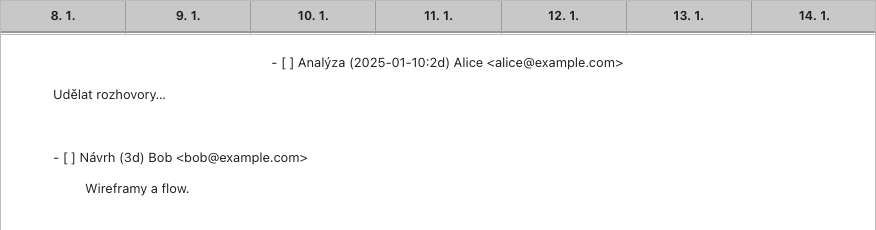
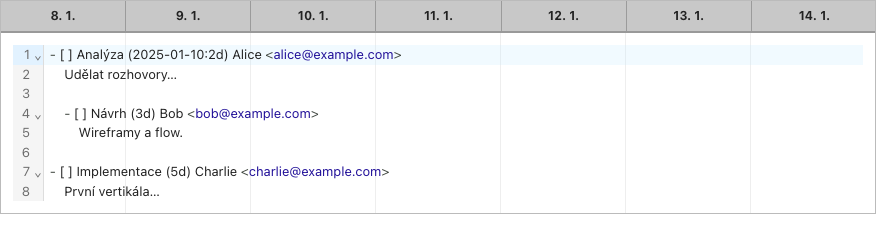
Refactor Editor and Timeline components for improved styling and adaptive layout. Replace oneDark theme with custom EditorView theme in Editor.tsx. Enhance Timeline.tsx to dynamically calculate day width based on content length using useLayoutEffect. Update visual test artifacts for consistency.

diff --git a/editor/src/components/Timeline.tsx b/editor/src/components/Timeline.tsx
@@ -1,4 +1,4 @@
-import { useMemo } from 'react'
+import { useMemo, useRef, useLayoutEffect, useState } from 'react'
 import CalendarHeader from './CalendarHeader'
 import { eachDay, toISODate } from '../utils/date'
 import Editor from './Editor'
@@ -13,9 +13,28 @@ export type TimelineProps = {
 
 export default function Timeline({ start, end, width, source, onChange }: TimelineProps) {
   const days = useMemo(() => eachDay(start, end), [start, end])
-  const dayWidth = width / Math.max(1, days.length)
+  const [dayWidth, setDayWidth] = useState<number>(width / Math.max(1, days.length))
+  const hostRef = useRef<HTMLDivElement | null>(null)
+
+  // Measure widest line segment to compute adaptive day width
+  useLayoutEffect(() => {
+    const host = hostRef.current
+    if (!host) return
+    // Create a hidden canvas to measure text width
+    const canvas = document.createElement('canvas')
+    const ctx = canvas.getContext('2d')
+    if (!ctx) return
+    ctx.font = '13px system-ui, -apple-system, Segoe UI, Roboto, Helvetica, Arial, sans-serif'
+    const lines = source.split(/\r?\n/)
+    let maxChars = 0
+    for (const line of lines) {
+      maxChars = Math.max(maxChars, ctx.measureText(line.replace(/^\s+/, '')).width)
+    }
+    const minDay = Math.ceil((maxChars + 32) / Math.max(1, days.length))
+    setDayWidth(Math.max(minDay, Math.floor(width / Math.max(1, days.length))))
+  }, [source, days.length, width])
   return (
-    <div style={{ border: '1px solid #bbb', background: '#fff', color: '#222', fontFamily: 'system-ui, -apple-system, Segoe UI, Roboto, Helvetica, Arial, sans-serif', fontSize: 13, lineHeight: 1.5 }}>
+    <div ref={hostRef} style={{ border: '1px solid #bbb', background: '#fff', color: '#222', fontFamily: 'system-ui, -apple-system, Segoe UI, Roboto, Helvetica, Arial, sans-serif', fontSize: 13, lineHeight: 1.5 }}>
       <CalendarHeader start={start} end={end} containerWidth={width} />
       <div style={{ position: 'relative' }}>
         <div style={{ position: 'absolute', inset: 0, pointerEvents: 'none', display: 'grid', gridTemplateColumns: `repeat(${days.length}, ${dayWidth}px)` }}>

diff --git a/editor/src/components/Editor.tsx b/editor/src/components/Editor.tsx
@@ -4,7 +4,6 @@ import { EditorView, keymap, ViewUpdate } from '@codemirror/view';
 import { defaultKeymap, history, historyKeymap } from '@codemirror/commands';
 import { basicSetup } from 'codemirror';
 import { markdown } from '@codemirror/lang-markdown';
-import { oneDark } from '@codemirror/theme-one-dark';
 
 export type EditorProps = {
   value: string;
@@ -25,7 +24,16 @@ export default function Editor({ value, onChange, className }: EditorProps) {
         keymap.of([...defaultKeymap, ...historyKeymap] as const),
         history(),
         markdown(),
-        oneDark,
+        EditorView.theme({
+          '.cm-editor': { padding: '0', height: '100%' },
+          '.cm-scroller': {
+            fontFamily: 'system-ui, -apple-system, Segoe UI, Roboto, Helvetica, Arial, sans-serif',
+            fontSize: '13px',
+            lineHeight: '1.5',
+            color: '#222',
+          },
+          '.cm-content': { padding: '0' },
+        }),
         EditorView.updateListener.of((v) => {
           if (v.docChanged && onChange) {
             const doc = v.state.doc.toString();

diff --git a/editor/test-results/visual-timeline-matches-mock-chromium/error-context.md b/editor/test-results/visual-timeline-matches-mock-chromium/error-context.md
@@ -1,20 +1,50 @@
 # Page snapshot
 
 ```yaml
-- generic [ref=e5]:
-  - generic [ref=e6]:
-    - generic [ref=e7]: 8. 1.
-    - generic [ref=e8]: 9. 1.
-    - generic [ref=e9]: 10. 1.
-    - generic [ref=e10]: 11. 1.
-    - generic [ref=e11]: 12. 1.
-    - generic [ref=e12]: 13. 1.
-    - generic [ref=e13]: 14. 1.
-  - generic [ref=e23]:
-    - generic [ref=e25]: "- [ ] Analýza (2025-01-10:2d) Alice <alice@example.com>"
-    - generic [ref=e27]: Udělat rozhovory…
-    - generic [ref=e31]: "- [ ] Návrh (3d) Bob <bob@example.com>"
-    - generic [ref=e33]: Wireframy a flow.
-    - generic [ref=e37]: "- [ ] Implementace (5d) Charlie <charlie@example.com>"
-    - generic [ref=e39]: První vertikála…
+- generic [ref=e4]:
+  - generic [ref=e5]:
+    - generic [ref=e6]: 8. 1.
+    - generic [ref=e7]: 9. 1.
+    - generic [ref=e8]: 10. 1.
+    - generic [ref=e9]: 11. 1.
+    - generic [ref=e10]: 12. 1.
+    - generic [ref=e11]: 13. 1.
+    - generic [ref=e12]: 14. 1.
+  - generic [ref=e17]:
+    - generic [ref=e18]:
+      - generic [ref=e19]:
+        - generic [ref=e20]: "1"
+        - generic [ref=e21]: "2"
+        - generic [ref=e22]: "3"
+        - generic [ref=e23]: "4"
+        - generic [ref=e24]: "5"
+        - generic [ref=e25]: "6"
+        - generic [ref=e26]: "7"
+        - generic [ref=e27]: "8"
+      - generic [ref=e28]:
+        - generic [ref=e30] [cursor=pointer]: ⌄
+        - generic [ref=e32] [cursor=pointer]: ⌄
+        - generic [ref=e34] [cursor=pointer]: ⌄
+    - textbox [ref=e35]:
+      - generic [ref=e36]:
+        - generic [ref=e37]: "-"
+        - text: "[ ] Analýza (2025-01-10:2d) Alice"
+        - generic [ref=e38]: <
+        - generic [ref=e39]: alice@example.com
+        - generic [ref=e40]: ">"
+      - generic [ref=e41]: Udělat rozhovory…
+      - generic [ref=e43]:
+        - generic [ref=e44]: "-"
+        - text: "[ ] Návrh (3d) Bob"
+        - generic [ref=e45]: <
+        - generic [ref=e46]: bob@example.com
+        - generic [ref=e47]: ">"
+      - generic [ref=e48]: Wireframy a flow.
+      - generic [ref=e50]:
+        - generic [ref=e51]: "-"
+        - text: "[ ] Implementace (5d) Charlie"
+        - generic [ref=e52]: <
+        - generic [ref=e53]: charlie@example.com
+        - generic [ref=e54]: ">"
+      - generic [ref=e55]: První vertikála…
 ```
